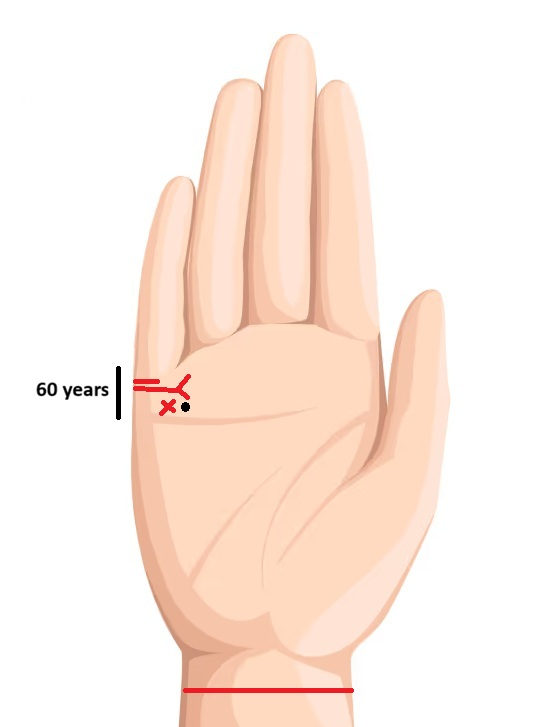
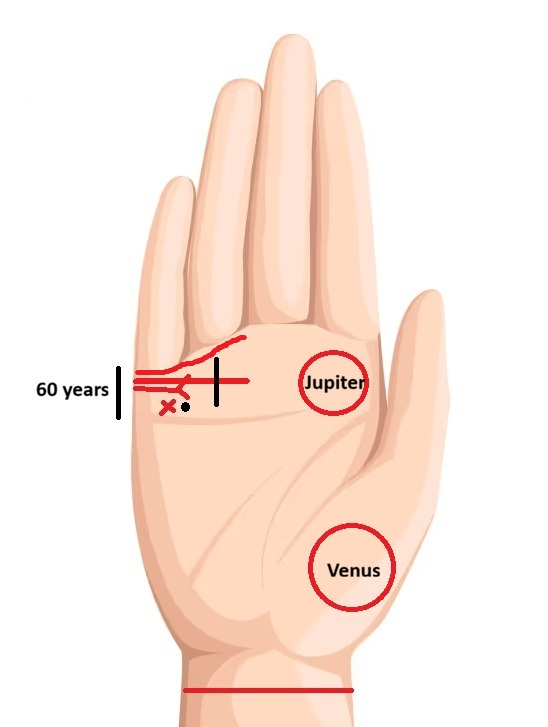
add astrology

Changed region(s): [[0.5584, 0.696, 0.7445, 0.8473], [0.2482, 0.4539, 0.4653, 0.575], [0.5274, 0.4842, 0.6825, 0.575]]

diff --git a/theory/astrology.md b/theory/astrology.md
@@ -868,7 +868,7 @@ D9 Lagna → সিংহ
 [↑ সূচিপত্রে ফিরুন](#top)
 
 ---
-<a id="s13"></a>
+<a id="s13.1"></a>
 ### ১৩.১ আত্মকারক (Atmakaraka) গ্রহ
 
 আত্মকারক হলো জন্মকুণ্ডলীতে (জৈমিনি মতে) যে গ্রহ **সর্বাধিক ডিগ্রি** অর্জন করে। এটি আত্মার উদ্দেশ্য, জীবনের মূল শিক্ষা, শক্তি ও কর্মফল নির্দেশ করে।
@@ -2391,18 +2391,12 @@ D1-এ গ্রহ যদি রবি, চন্দ্র, মঙ্গল ব
 | ভাগ্যরেখা দুর্বল | পুখরাজ, নীলম | কর্মজীবন, ভাগ্য |
 | সূর্যরেখা দুর্বল | মাণিক্য | খ্যাতি, পদোন্নতি |
 
-### পর্বত (Mount) অনুযায়ী
+### সূর্য পর্বত (Mount)
+#### Good Mount
+<img src="./img/good-robi.jpeg" loading="lazy" />
 
-| পর্বত উঁচু হলে | রত্ন |
-|---|---|
-| বৃহস্পতি পর্বত | পুখরাজ |
-| সূর্য পর্বত | মাণিক্য |
-| চন্দ্র পর্বত | মুক্তো |
-| মঙ্গল পর্বত | মুঙ্গা |
-| বুধ পর্বত | পান্না |
-| শুক্র পর্বত | হীরা |
-| শনি পর্বত | নীলম |
-| রাহু-কেতু ধরনের রহস্যময় চিহ্ন | গোমেদ, লাহসুনিয়া |
+#### Bad Mount
+<img src="./img/bad-robi.jpeg" loading="lazy" />
 
 [↑ সূচিপত্রে ফিরুন](#top)
 
